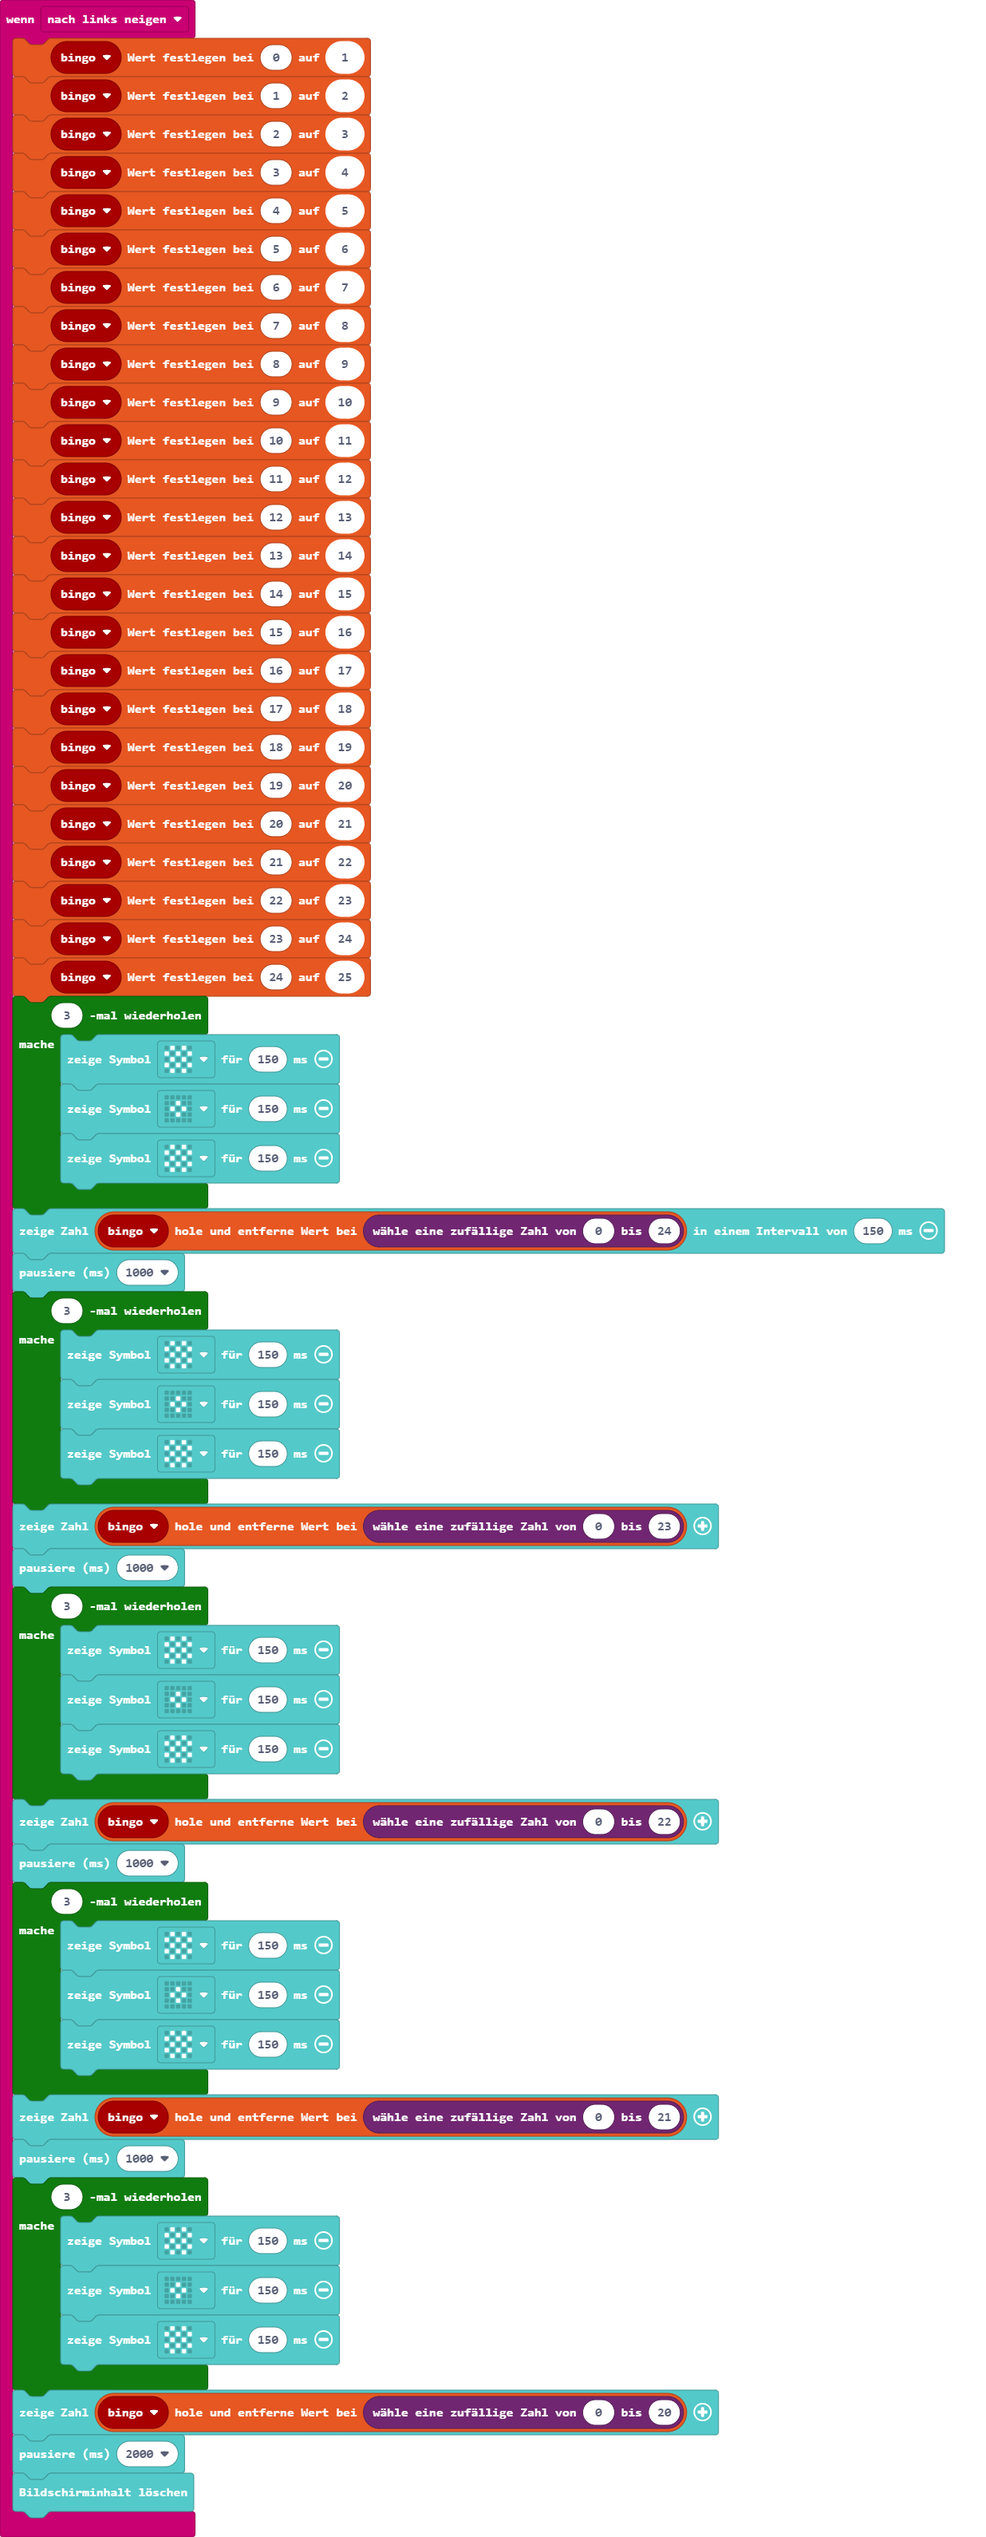
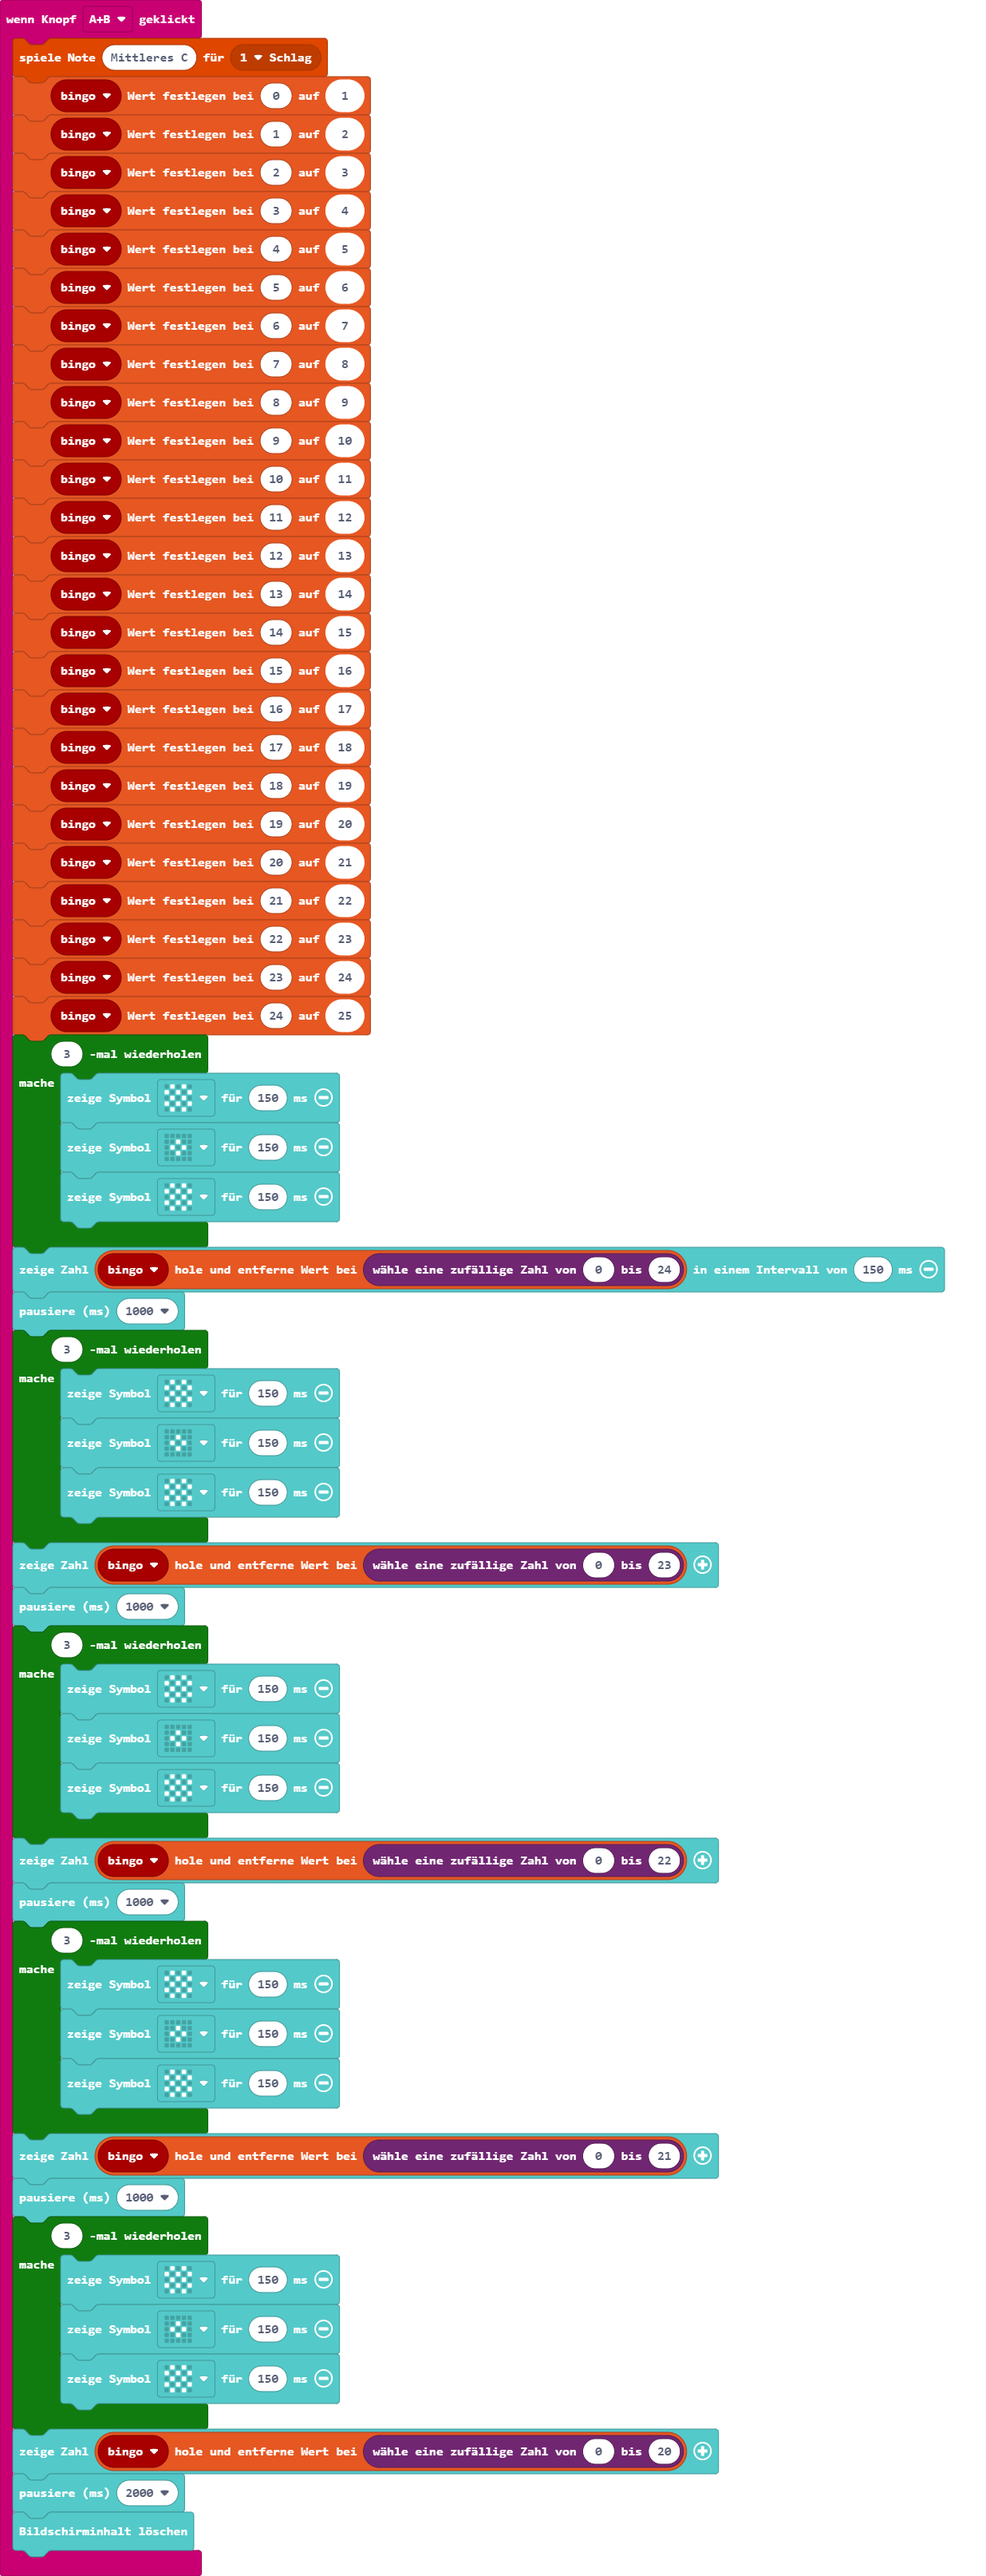
Aktualisiere main.blocks, main.ts

Changed region(s): [[0.0, 0.0, 0.9531, 0.9969], [0.1845, 0.9969, 0.2152, 1.0]]

diff --git a/main.ts b/main.ts
@@ -1,5 +1,6 @@
-input.onGesture(Gesture.TiltLeft, function () {
+input.onButtonPressed(Button.AB, function () {
     let bingo: number[] = []
+    music.playTone(262, music.beat(BeatFraction.Whole))
     bingo[0] = 1
     bingo[1] = 2
     bingo[2] = 3
